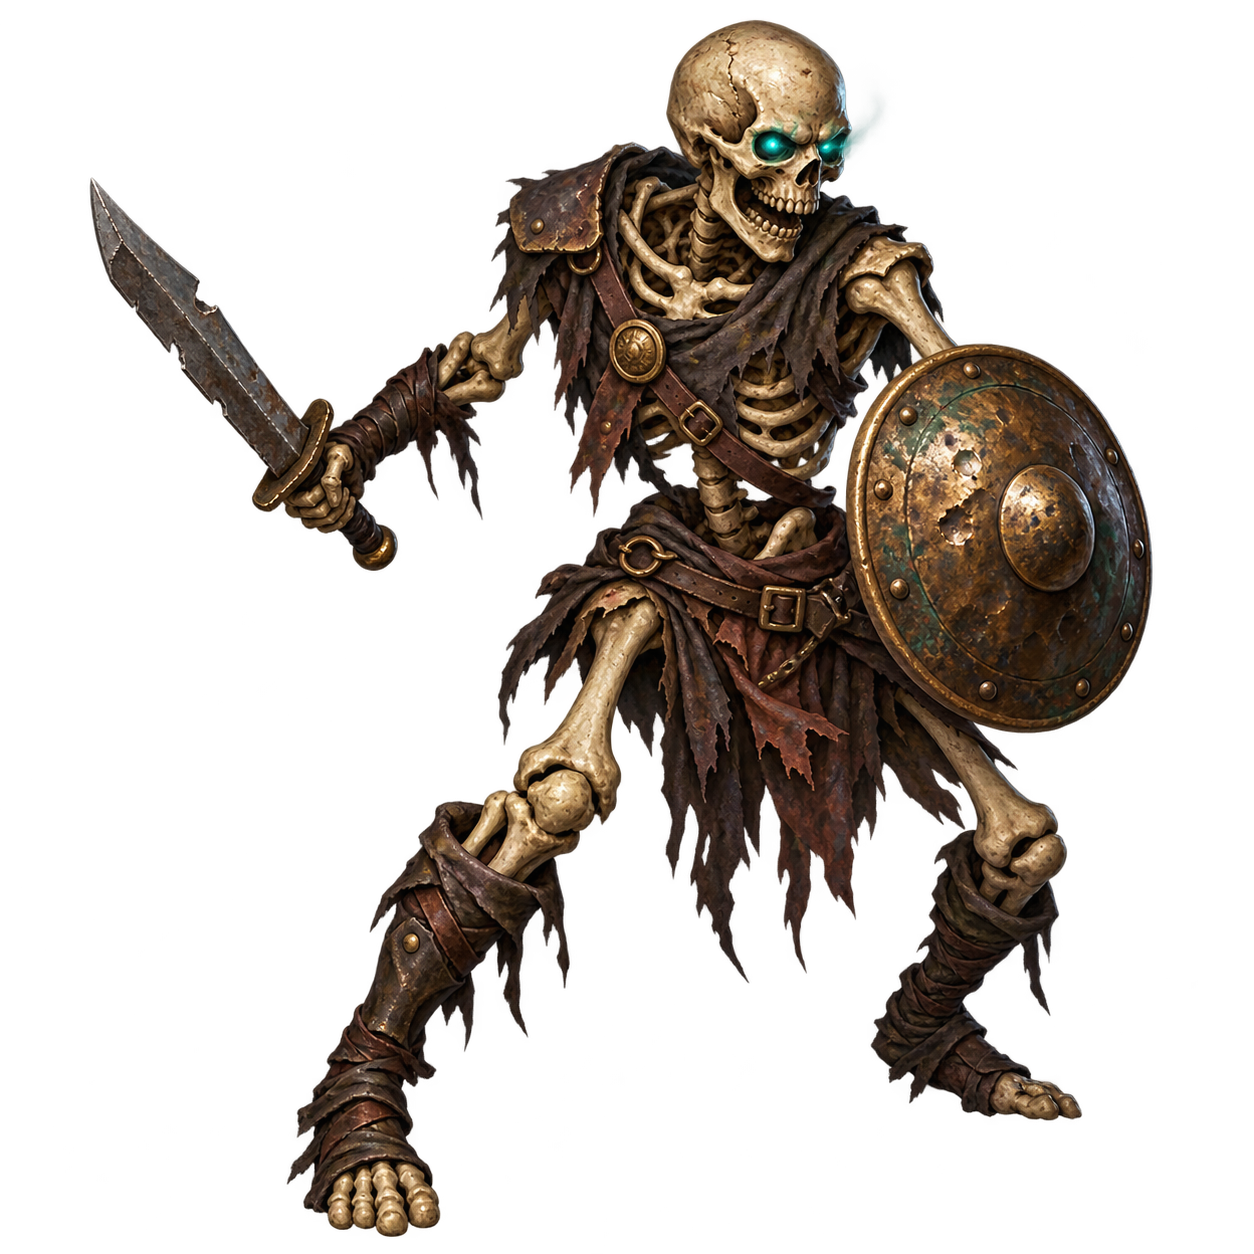
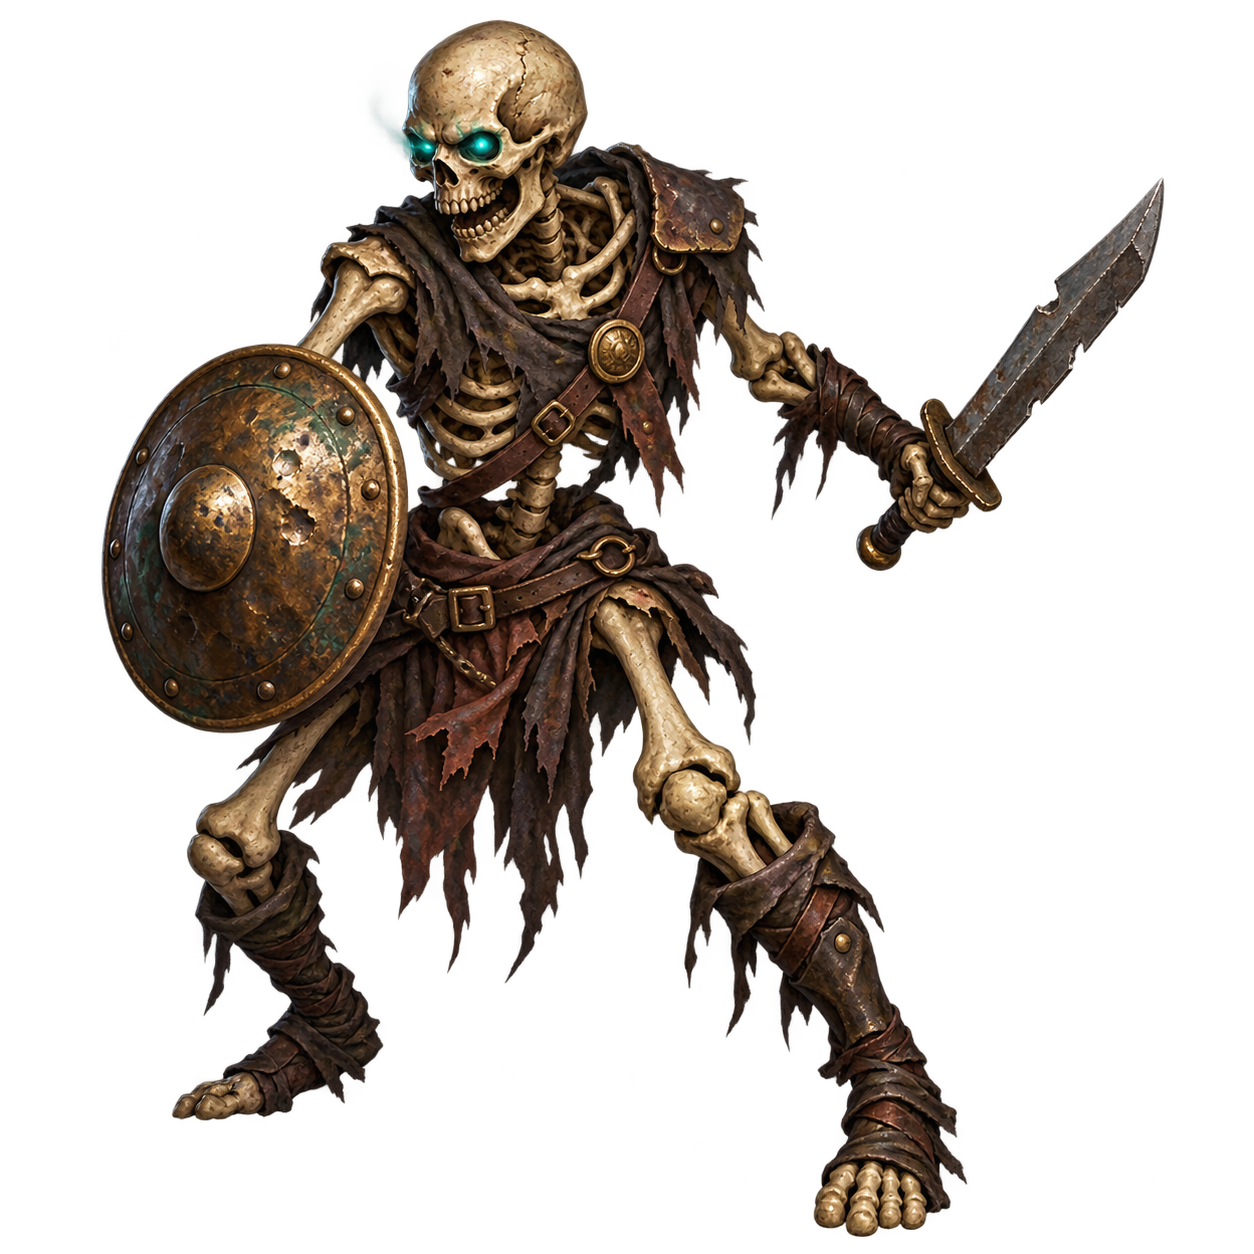
art: add enemy tiers, Hell backgrounds and camp artwork

diff --git a/runtime/assets/enemies/normal/battle/orc/README.md b/runtime/assets/enemies/normal/battle/orc/README.md
@@ -1,5 +1,5 @@
 # Orc battle art
 
-This is Orc's canonical full-body battle-art home. No approved Orc battle PNG
-has been supplied yet, so the runtime retains its generic missing-art fallback.
-Do not borrow another enemy's portrait or board marker here.
+Approved full-body Board 1-6 artwork lives in board-1.png through board-6.png.
+These images face left. Runtime tier selection is a separate integration step;
+the current registry retains its existing fallback until that wiring lands.

diff --git a/runtime/assets/enemies/normal/battle/cultist/README.md b/runtime/assets/enemies/normal/battle/cultist/README.md
@@ -1,5 +1,5 @@
 # Cultist battle art
 
-This is Cultist's canonical full-body battle-art home. No approved Cultist
-battle PNG has been supplied yet; preserve the generic missing-art fallback.
-Do not use the static board marker as combat art.
+Approved full-body Board 1-6 artwork lives in board-1.png through board-6.png.
+These images face left. Runtime tier selection is a separate integration step;
+the current registry retains its existing fallback until that wiring lands.

diff --git a/runtime/assets/enemies/normal/battle/lich/README.md b/runtime/assets/enemies/normal/battle/lich/README.md
@@ -1,5 +1,5 @@
 # Lich battle art
 
-This is Lich's canonical full-body battle-art home. No approved Lich battle
-PNG has been supplied yet; preserve the generic missing-art fallback rather
-than introducing substitute art.
+Approved full-body Board 1-6 artwork lives in board-1.png through board-6.png.
+These images face left. Runtime tier selection is a separate integration step;
+the current registry retains its existing fallback until that wiring lands.
